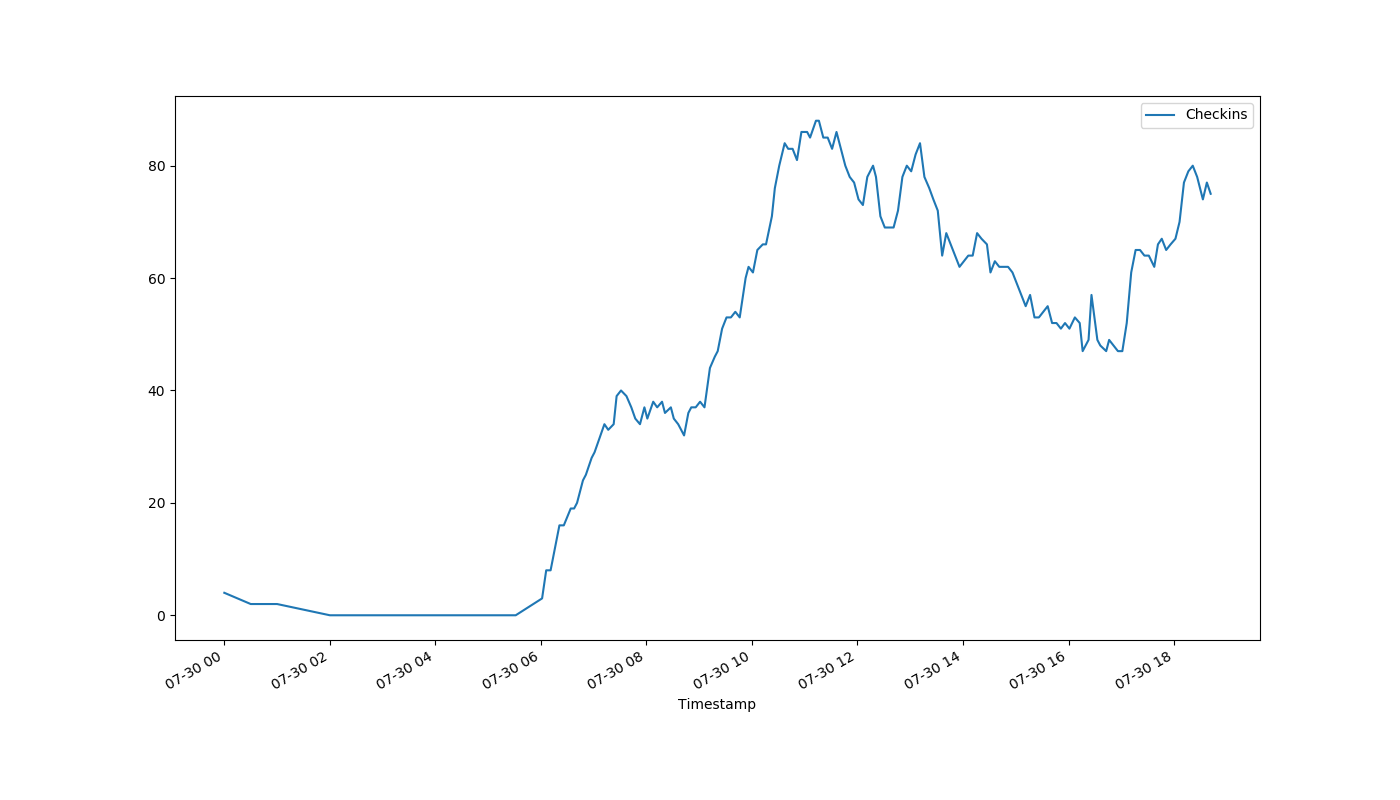
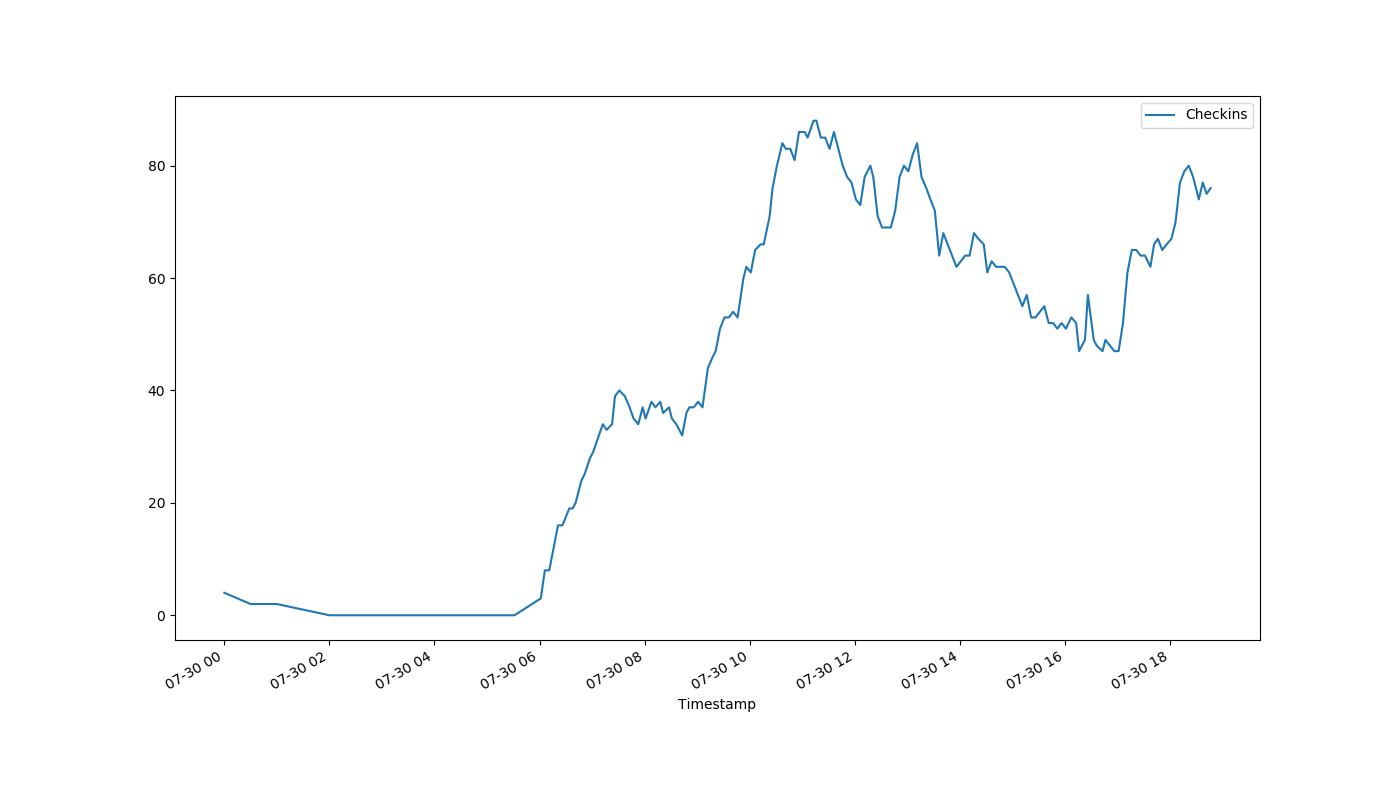
auto-Jul-30-18:47:57

diff --git a/index.html b/index.html
@@ -1,1 +1,1 @@
-<!DOCTYPE html><html><head><meta http-equiv="refresh" content="30"><link rel='stylesheet' href='holmcurrent.css'></head><body><p id='count'>75</p><div id='graph-wrap'><img id='graph' src='holmgraph-Jul-30.png'></div><p id='updated'>Last updated 18:42:07 / 18:41:37</p></body></html>
+<!DOCTYPE html><html><head><meta http-equiv="refresh" content="30"><link rel='stylesheet' href='holmcurrent.css'></head><body><p id='count'>76</p><div id='graph-wrap'><img id='graph' src='holmgraph-Jul-30.png'></div><p id='updated'>Last updated 18:47:08 / 18:46:18</p></body></html>
